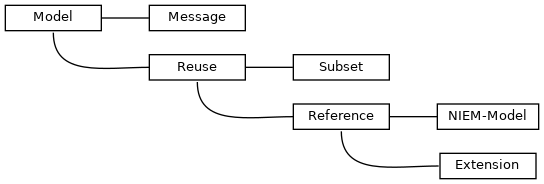
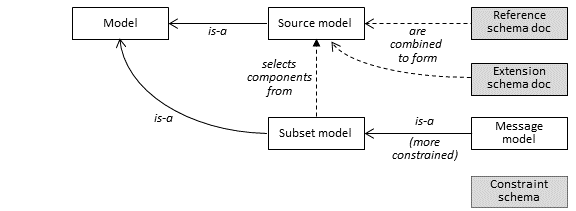
Add 2023-07-11 minutes, 2023-07-18 agenda Revised model taxonomy image

Changed region(s): [[0.0, 0.0, 1.0, 0.8696], [0.6562, 0.8152, 1.0, 1.0]]

diff --git a/meetings/docs/2023-07-11-minutes.md b/meetings/docs/2023-07-11-minutes.md
@@ -1,0 +1,44 @@
+# NTAC minutes, 11 July 2023 (draft)
+
+## [Agenda](2023-07-11-agenda.md)
+
+## Attending
+
+- [x] Aubrey Beach
+- [ ] Jim Cabral
+- [x] Tom Carlson
+- [ ] Kelly Cullinane
+- [ ] Chuck Chipman
+- [ ] Mike Douklias
+- [ ] Chet Ensign
+- [ ] Katherine Escobar
+- [ ] Lavdjola Farrington
+- [ ] Dave Hardy
+- [ ] Mike Hulme
+- [ ] Eric Jahn
+- [ ] David Kemp
+- [ ] Vamsi Kondannagari
+- [x] Shunda Louis
+- [ ] Peter Madruga
+- [x] Christina Medlin
+- [x] Joe Mierwa
+- [ ] Carl Nelson
+- [x] Scott Renner
+- [ ] Beth Smalley
+- [ ] Duncan Sparrell
+- [ ] Jennifer Stathakis
+- [ ] Stephen Sullivan
+
+## **Previous minutes**  
+
+[Minutes for 2023-06-27](2023-06-27-minutes.md) approved without change.
+
+## New business
+
+Talked about new discussion #?? – how to make reference attributes required on some elements and not allowed on others.  Consensus after discussion:
+
+* We need/want local type definitions in message schema documents
+* We may need a SubsetSchemaDocument conformance target.  Impact on NDR still unknown
+* We should renamce "constraint schema" to "message schema". Don't need a conformance target for message schema documents.
+* We need a way to label the schema document that is authoritative for a namespace, but that doesn't have to be a conformance target assertaion.  Could use @version.
+

diff --git a/meetings/README.md b/meetings/README.md
@@ -4,7 +4,8 @@
 
 ## Meeting minutes
 
-* [2023-06-27 (draft)](docs/2023-06-27-minutes.md)
+* [2023-07-11 (draft)](docs/2023-07-11-minutes.md)
+* [2023-06-27](docs/2023-06-27-minutes.md) – N6 arch changes, external standards
 * [2023-06-20](docs/2023-06-20-minutes.md) – N6 arch changes, external standards, Zoom meetings
 * [2023-06-13](docs/2023-06-13-minutes.md) – NDR overhaul, external standards, nc:ObjectType, @sequenceID
 * [2023-06-06](docs/2023-06-06-minutes.md) – NDR changes, external standards

diff --git a/meetings/docs/2023-07-18-agenda.md b/meetings/docs/2023-07-18-agenda.md
@@ -5,12 +5,6 @@
 
 1. Review and approve minutes: [2023-06-27-minutes.md](2023-06-27-minutes.md)
 2. NDR Overhaul
-	- Published (or will be soon)
-	- Next steps?
-3. Understanding the NIEM Information Model
 4. NIEM to Incorporate other standards by reference
-5. Wildcard Augmentations
-6. Technical Architecture Project Note
-7. Tools and Software Build Automation
-8. CMFTool
+5. Agenda items for 27 July PGB meeting
 9. New Business

diff --git a/meetings/docs/2023-06-27-minutes.md b/meetings/docs/2023-06-27-minutes.md
@@ -1,4 +1,4 @@
-# NTAC minutes, 27 June 2023 (draft)
+# NTAC minutes, 27 June 2023
 
 ## [Agenda](2023-06-27-agenda.md)
 
